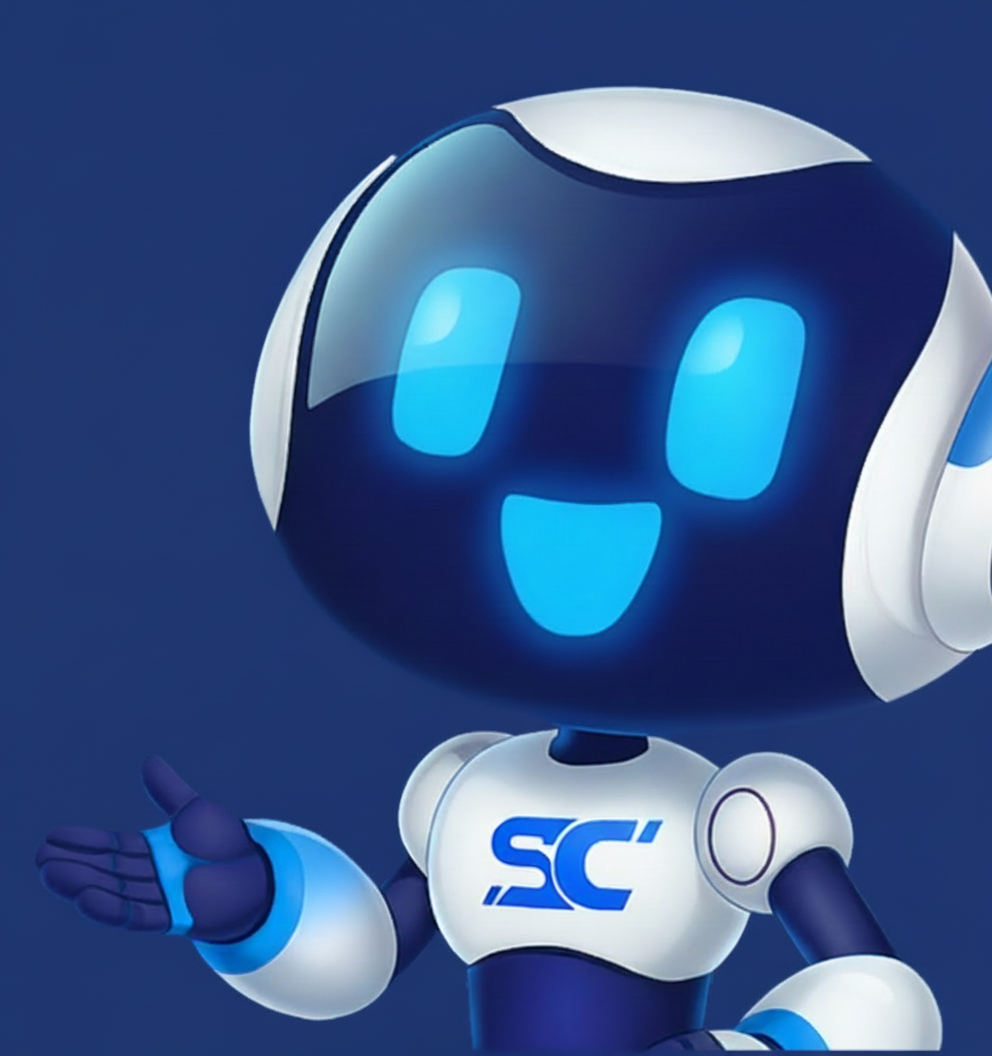
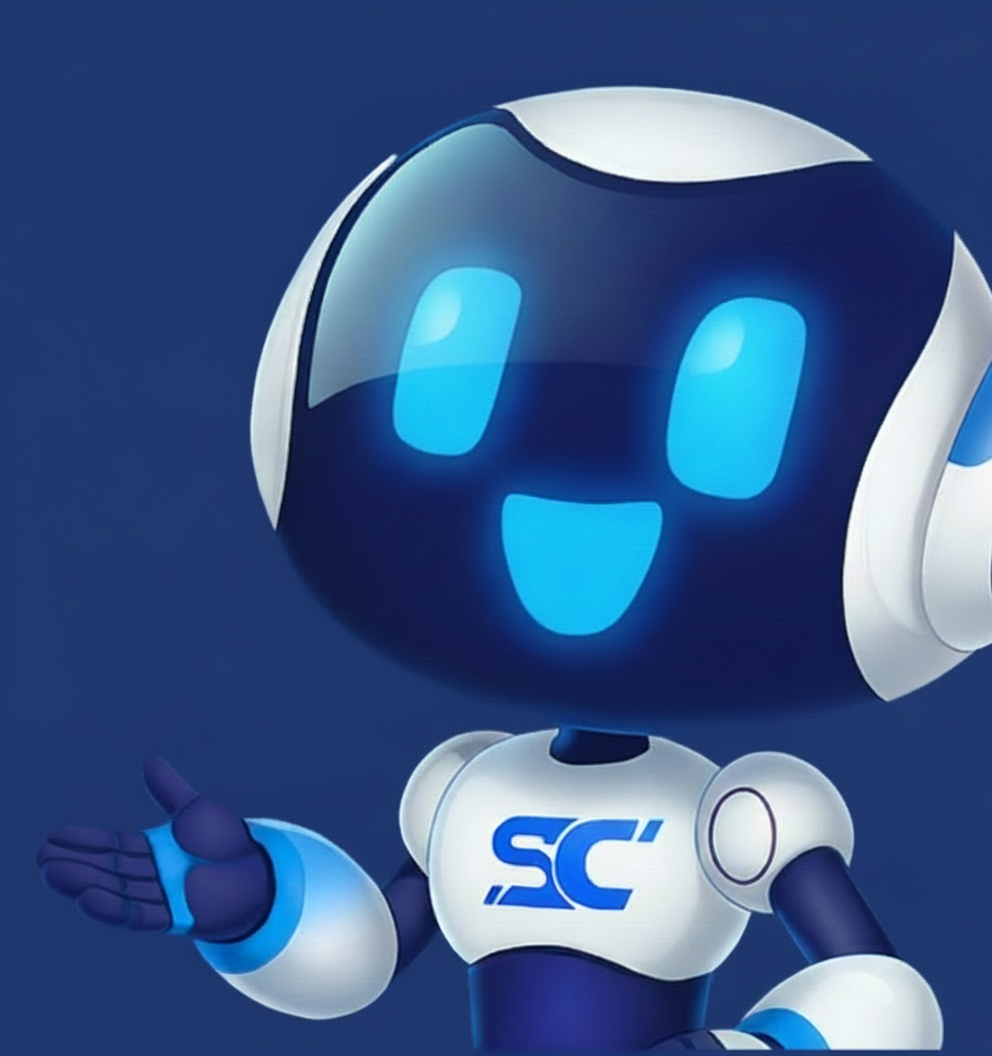
Changes

diff --git a/src/components/ServicesSection.tsx b/src/components/ServicesSection.tsx
@@ -1,5 +1,5 @@
 import { Network, Wallet, Clock, Download } from "lucide-react";
-import robotImage from "@/assets/robot-mascot-clean.png";
+import robotImage from "@/assets/robot-transparent.png";
 
 const services = [
   {
